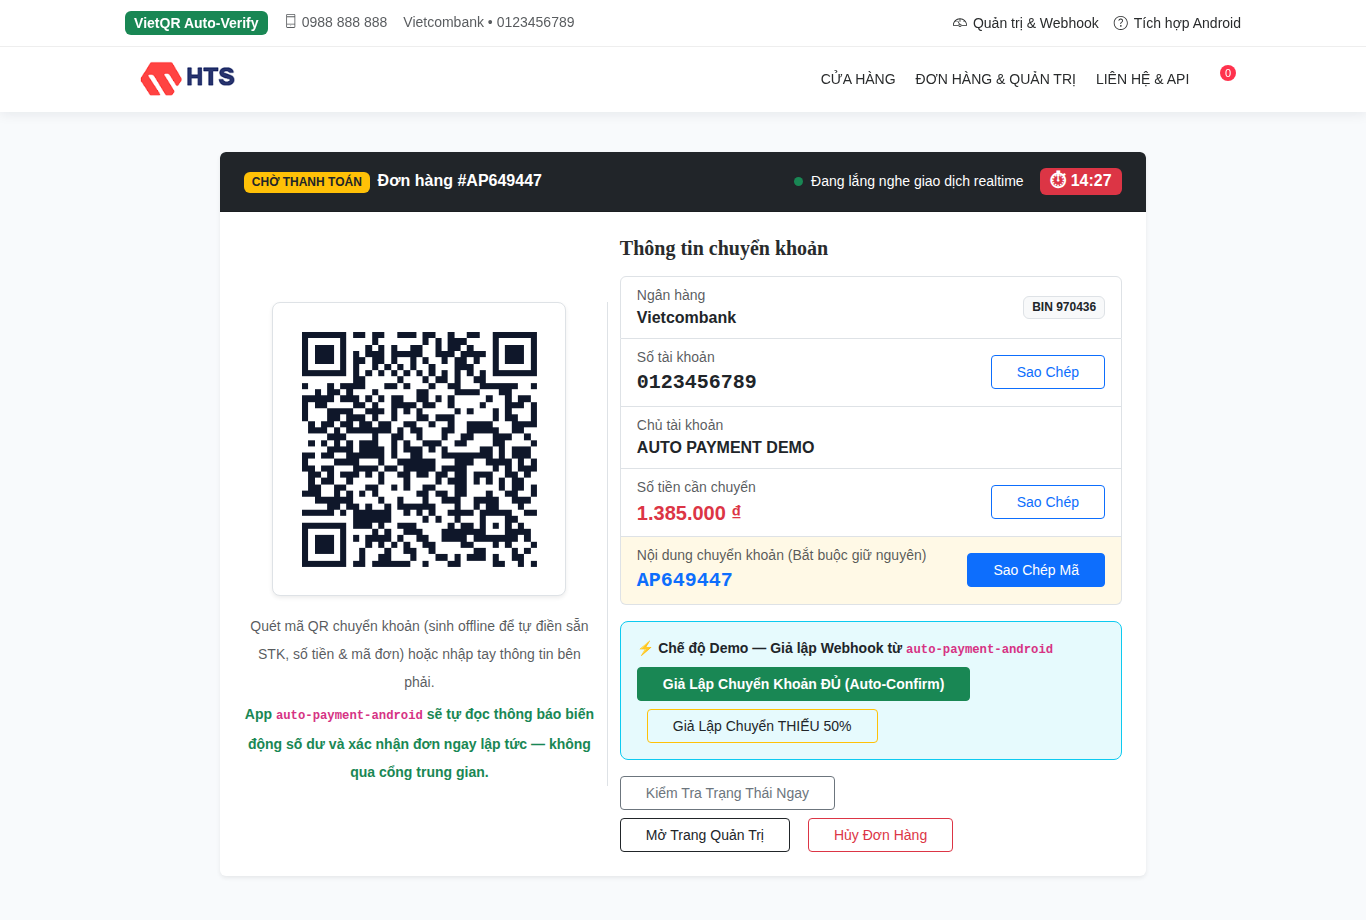
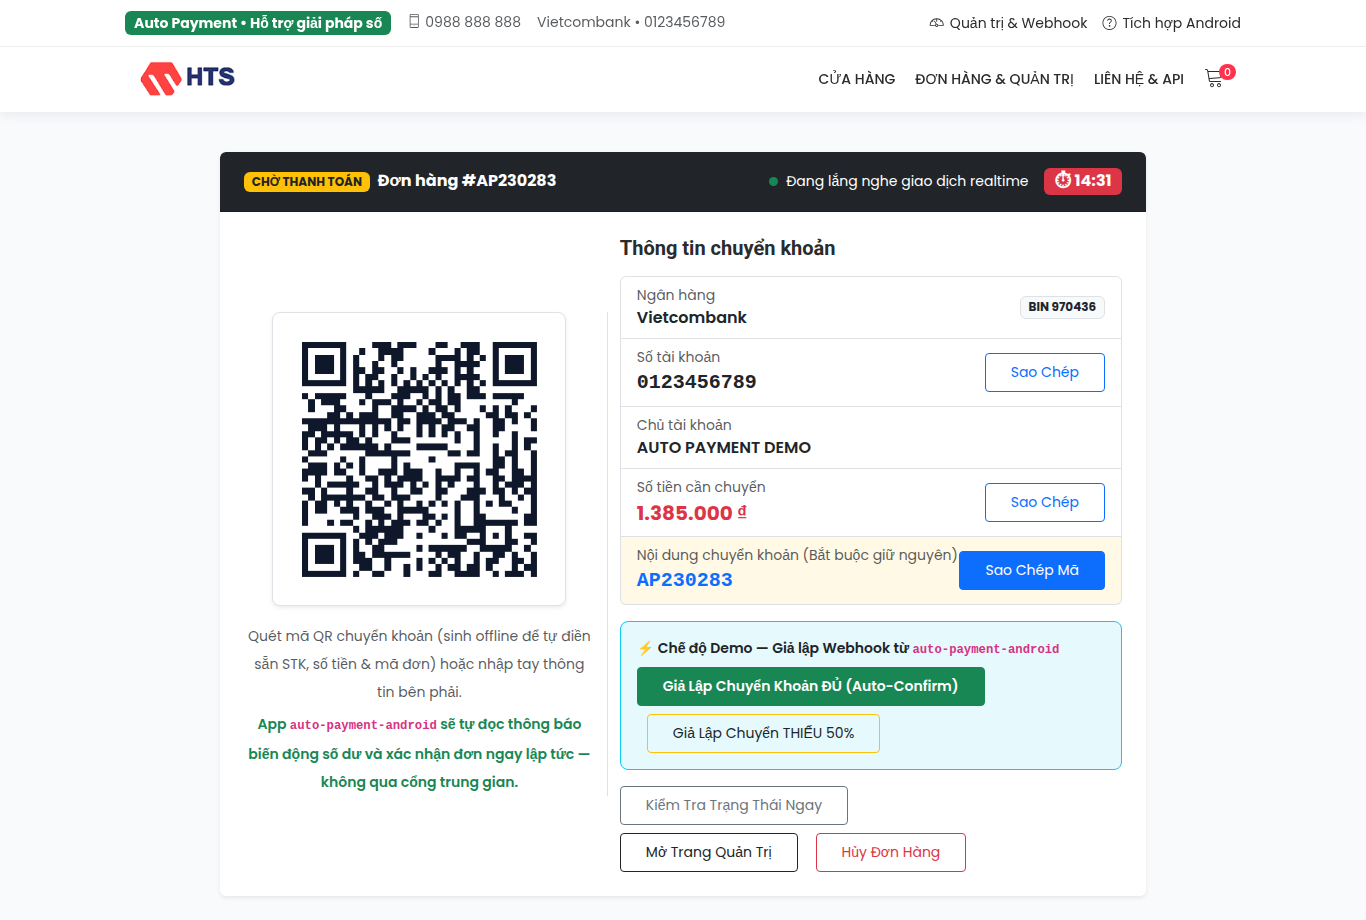
refactor: remove VietQR branding traces in favor of self-hosted EMVCo QR & regenerate demo screenshots

diff --git a/server/utils/bankQr.ts b/server/utils/bankQr.ts
@@ -1,6 +1,6 @@
 import QRCode from 'qrcode'
 
-export interface VietQrInput {
+export interface BankQrInput {
   bankBin: string
   accountNo: string
   amount: number
@@ -15,7 +15,7 @@ function tlv(tag: string, value: string): string {
 
 /**
  * Computes CRC-16/CCITT-FALSE (polynomial 0x1021, initial value 0xFFFF)
- * as required by EMVCo / VietQR Tag 63.
+ * as required by EMVCo Tag 63.
  */
 export function computeCrc16Ccitt(payload: string): string {
   let crc = 0xffff
@@ -51,19 +51,20 @@ export function sanitizePurpose(purpose: string): string {
 }
 
 /**
- * Builds an EMVCo / NAPAS 247 VietQR string scannable by Vietnamese banking apps.
+ * Builds an offline EMVCo / NAPAS 247 bank transfer QR string scannable by Vietnamese banking apps.
+ * Generated 100% locally with zero external API calls.
  */
-export function buildVietQrPayload(input: VietQrInput): string {
+export function buildBankQrPayload(input: BankQrInput): string {
   const cleanBin = input.bankBin.replace(/\D/g, '')
   const cleanAccount = input.accountNo.replace(/\s+/g, '')
   if (!cleanBin || !cleanAccount) {
-    throw new Error('bankBin and accountNo are required to build a VietQR payload')
+    throw new Error('bankBin and accountNo are required to build a bank transfer QR payload')
   }
 
   const amountInt = Math.max(0, Math.round(input.amount))
   const cleanPurpose = sanitizePurpose(input.purpose)
 
-  // Tag 38: Merchant Account Information (NAPAS VietQR)
+  // Tag 38: Merchant Account Information (NAPAS 247 IBFT)
   // 00: NAPAS GUID ("A000000727")
   // 01: Acquirer BIN (00) + Beneficiary Account Number (01)
   // 02: Service Code ("QRIBFTTA" = transfer to bank account)
@@ -92,11 +93,11 @@ export function buildVietQrPayload(input: VietQrInput): string {
   return bodyWithCrcPrefix + crc
 }
 
-export async function generateVietQrDataUrl(input: VietQrInput): Promise<{
+export async function generateBankQrDataUrl(input: BankQrInput): Promise<{
   payload: string
   dataUrl: string
 }> {
-  const payload = buildVietQrPayload(input)
+  const payload = buildBankQrPayload(input)
   const dataUrl = await QRCode.toDataURL(payload, {
     errorCorrectionLevel: 'M',
     margin: 2,

diff --git a/components/common/Footer.vue b/components/common/Footer.vue
@@ -13,7 +13,7 @@ const config = useRuntimeConfig()
                 <NuxtLink to="/"><img src="/assets/images/logo_light.png" alt="Auto Payment" style="max-height: 36px;" /></NuxtLink>
               </div>
               <p>
-                Hệ thống bán hàng &amp; xác nhận thanh toán tự động qua chuẩn VietQR EMVCo, tích hợp nhận thông báo biến động số dư thời gian thực qua webhook.
+                Hệ thống bán hàng &amp; xác nhận chuyển khoản tự động (tự sinh QR ngân hàng offline, nhận thông báo biến động số dư qua <code>auto-payment-android</code> — phát triển bởi <strong>Hỗ trợ giải pháp số</strong>).
               </p>
             </div>
           </div>
@@ -62,10 +62,10 @@ const config = useRuntimeConfig()
       <div class="container">
         <div class="row align-items-center">
           <div class="col-md-6">
-            <p class="mb-md-0 text-center text-md-start">© 2026 Auto Payment • MIT License</p>
+            <p class="mb-md-0 text-center text-md-start">© 2026 Auto Payment — Hỗ trợ giải pháp số • MIT License</p>
           </div>
           <div class="col-md-6 text-center text-md-end small text-muted">
-            Powered by Nuxt 4, Nitro SSE &amp; VietQR EMVCo
+            Powered by Nuxt 4, Nitro SSE &amp; Auto Payment Android
           </div>
         </div>
       </div>

diff --git a/pages/admin/index.vue b/pages/admin/index.vue
@@ -142,7 +142,7 @@ const badgeClass = (status: string) => {
       <div class="d-flex flex-wrap align-items-center justify-content-between gap-2 mb-4">
         <div>
           <h3 class="fw-bold mb-0">Quản trị Đơn hàng &amp; Bank Webhook</h3>
-          <p class="text-muted small mb-0">Theo dõi đơn hàng VietQR, log thông báo ngân hàng và kiểm thử webhook <code>auto-payment-android</code></p>
+          <p class="text-muted small mb-0">Theo dõi đơn hàng chuyển khoản QR, log thông báo ngân hàng và kiểm thử webhook <code>auto-payment-android</code></p>
         </div>
         <div class="d-flex gap-2">
           <button class="btn btn-outline-primary btn-sm" @click="refreshAll">↻ Làm mới</button>
@@ -212,7 +212,7 @@ const badgeClass = (status: string) => {
             <tbody>
               <tr v-if="orders.length === 0">
                 <td colspan="7" class="text-center py-4 text-muted">
-                  Chưa có đơn hàng nào. Hãy <NuxtLink to="/">đặt thử một đơn hàng</NuxtLink> để kiểm tra quy trình VietQR!
+                  Chưa có đơn hàng nào. Hãy <NuxtLink to="/">đặt thử một đơn hàng</NuxtLink> để kiểm tra quy trình xác nhận tự động!
                 </td>
               </tr>
               <tr v-for="order in orders" :key="order.orderCode">

diff --git a/tests/auto-payment.test.ts b/tests/auto-payment.test.ts
@@ -4,7 +4,7 @@ import fs from 'node:fs'
 import os from 'node:os'
 import path from 'node:path'
 
-import { buildVietQrPayload, computeCrc16Ccitt, generateVietQrDataUrl } from '../server/utils/vietqr.ts'
+import { buildBankQrPayload, computeCrc16Ccitt, generateBankQrDataUrl } from '../server/utils/bankQr.ts'
 import { extractOrderCode, parseBankNotification } from '../server/utils/bankParser.ts'
 import { OrderStore } from '../server/utils/orderStore.ts'
 
@@ -12,8 +12,8 @@ test('computeCrc16Ccitt matches EMVCo CCITT-FALSE reference vector', () => {
   assert.equal(computeCrc16Ccitt('123456789'), '29B1')
 })
 
-test('buildVietQrPayload creates valid NAPAS 247 EMVCo QR string with valid CRC16', async () => {
-  const payload = buildVietQrPayload({
+test('buildBankQrPayload creates valid NAPAS 247 EMVCo QR string with valid CRC16', async () => {
+  const payload = buildBankQrPayload({
     bankBin: '970436',
     accountNo: '0123456789',
     amount: 150000,
@@ -35,7 +35,7 @@ test('buildVietQrPayload creates valid NAPAS 247 EMVCo QR string with valid CRC1
   const embeddedCrc = payload.slice(-4)
   assert.equal(embeddedCrc, computeCrc16Ccitt(bodyWithoutCrc))
 
-  const { dataUrl } = await generateVietQrDataUrl({
+  const { dataUrl } = await generateBankQrDataUrl({
     bankBin: '970436',
     accountNo: '0123456789',
     amount: 150000,

diff --git a/app.vue b/app.vue
@@ -23,10 +23,10 @@ useHead({
 })
 
 useSeoMeta({
-  title: 'Auto Payment — VietQR Automated Payment Storefront',
-  ogTitle: 'Auto Payment — VietQR Automated Payment Storefront',
-  description: 'Open-source Nuxt storefront with dynamic VietQR EMVCo checkout, real-time SSE payment confirmation, and Vietnamese bank notification webhook verification.',
-  ogDescription: 'Open-source Nuxt storefront with dynamic VietQR EMVCo checkout, real-time SSE payment confirmation, and Vietnamese bank notification webhook verification.',
+  title: 'Auto Payment — Self-Hosted Automated Bank Transfer Checkout',
+  ogTitle: 'Auto Payment — Self-Hosted Automated Bank Transfer Checkout',
+  description: 'Open-source Nuxt 4 storefront with built-in offline EMVCo bank QR generator, real-time SSE payment confirmation, and Android notification listener webhook by Hỗ trợ giải pháp số.',
+  ogDescription: 'Open-source Nuxt 4 storefront with built-in offline EMVCo bank QR generator, real-time SSE payment confirmation, and Android notification listener webhook by Hỗ trợ giải pháp số.',
   twitterCard: 'summary_large_image',
 })
 </script>

diff --git a/server/utils/catalog.ts b/server/utils/catalog.ts
@@ -102,7 +102,7 @@ export const DEMO_PRODUCTS: CatalogProduct[] = [
       shop_id: 1002,
       title: 'Gói Cloud Backup 1TB (12 tháng)',
       price: 299000 * 100000,
-      description: 'Kích hoạt tự động ngay sau khi thanh toán VietQR thành công.',
+      description: 'Kích hoạt tự động ngay sau khi chuyển khoản và xác nhận tự động thành công.',
       categories: [{ catid: 101936 }],
     },
     product_images: { images: [], directUrl: makeProductSvg('Cloud Backup 1TB', '#064e3b', '#10b981', '☁') },
@@ -126,7 +126,7 @@ export const DEMO_PRODUCTS: CatalogProduct[] = [
       shop_id: 1002,
       title: 'Ebook: Thiết kế hệ thống thanh toán tự động',
       price: 50000 * 100000,
-      description: 'Tài liệu thực chiến VietQR, Webhook, Idempotency & SSE (giá nhỏ dễ test QR!).',
+      description: 'Tài liệu thực chiến sinh QR EMVCo offline, Webhook Android, Idempotency & SSE.',
       categories: [{ catid: 101936 }],
     },
     product_images: { images: [], directUrl: makeProductSvg('Payment Ebook', '#7c2d12', '#ea580c', '📘') },

diff --git a/components/shop/ShopWithTab.vue b/components/shop/ShopWithTab.vue
@@ -87,7 +87,7 @@ const cartCount = computed(() => cart.value.reduce((sum: number, i: any) => sum 
       <div class="p-4 mb-4 rounded-3 text-white" style="background: linear-gradient(135deg, #0f172a 0%, #1d4ed8 100%);">
         <div class="row align-items-center">
           <div class="col-lg-8">
-            <span class="badge bg-info text-dark mb-2">VietQR EMVCo + Real-time SSE</span>
+            <span class="badge bg-info text-dark mb-2">QR Offline (EMVCo) + Real-time SSE</span>
             <h2 class="text-white fw-bold mb-2">Thanh toán tự động bằng chuyển khoản QR</h2>
             <p class="mb-0 text-white-50">
               Chọn sản phẩm, tạo mã đơn duy nhất &amp; QR chuyển khoản offline — hệ thống tự động xác nhận ngay khi app <code class="text-warning">auto-payment-android</code> đọc được thông báo ngân hàng.

diff --git a/server/api/orders.post.ts b/server/api/orders.post.ts
@@ -1,5 +1,5 @@
 import { getOrderStore, type PaymentMethod } from '~/server/utils/orderStore'
-import { generateVietQrDataUrl } from '~/server/utils/vietqr'
+import { generateBankQrDataUrl } from '~/server/utils/bankQr'
 
 export default defineEventHandler(async (event) => {
   const config = useRuntimeConfig(event)
@@ -42,7 +42,7 @@ export default defineEventHandler(async (event) => {
     const accountName = String(config.bankAccountName || 'AUTO PAYMENT DEMO')
     const transferContent = `${orderCode}`
 
-    const { payload, dataUrl } = await generateVietQrDataUrl({
+    const { payload, dataUrl } = await generateBankQrDataUrl({
       bankBin,
       accountNo,
       amount: totalAmount,

diff --git a/components/shop/Checkout.vue b/components/shop/Checkout.vue
@@ -18,8 +18,8 @@ const errorMessage = ref('')
 const paymentMethods = computed(() => [
   {
     type: 'qr' as const,
-    name: 'VietQR (Khuyên dùng — Xác nhận tự động)',
-    desc: `Quét mã VietQR động (${config.public.bankName}) với đúng số tiền và mã đơn. Hệ thống tự động hoàn tất ngay sau vài giây.`,
+    name: 'Chuyển khoản QR tự động (Khuyên dùng)',
+    desc: `Quét mã QR sinh offline (${config.public.bankName}) với đúng số tiền và mã đơn. App auto-payment-android tự xác nhận ngay khi tiền vào.`,
   },
   {
     type: 'bank_transfer' as const,

diff --git a/components/common/Header.vue b/components/common/Header.vue
@@ -17,7 +17,7 @@ const openStorefront = () => {
         <div class="row align-items-center">
           <div class="col-md-7">
             <div class="d-flex align-items-center justify-content-center justify-content-md-start gap-3">
-              <span class="badge bg-success">VietQR Auto-Verify</span>
+              <span class="badge bg-success">Auto Payment • Hỗ trợ giải pháp số</span>
               <span class="small text-muted">
                 <i class="ti-mobile me-1"></i>{{ config.public.supportPhone }}
               </span>

diff --git a/components/shop/PlaceOrder.vue b/components/shop/PlaceOrder.vue
@@ -199,7 +199,7 @@ onBeforeUnmount(() => {
                     <img
                       v-if="activeOrder.bankInfo?.qrDataUrl"
                       :src="activeOrder.bankInfo.qrDataUrl"
-                      :alt="`VietQR ${activeOrder.orderCode}`"
+                      :alt="`QR chuyển khoản ${activeOrder.orderCode}`"
                       style="width: 260px; height: 260px;"
                     />
                   </div>

diff --git a/nuxt.config.ts b/nuxt.config.ts
@@ -16,7 +16,7 @@ export default defineNuxtConfig({
     elasticsearchBaseUrl: '',
     elasticsearchToken: '',
 
-    // VietQR / Bank Transfer settings (override via NUXT_BANK_* env vars)
+    // Offline EMVCo / Bank Transfer settings (override via NUXT_BANK_* env vars)
     bankBin: '970436', // Vietcombank NAPAS BIN (e.g. 970436 VCB, 970422 MB, 970407 TCB, 970416 ACB)
     bankName: 'Vietcombank',
     bankAccountNo: '0123456789',
